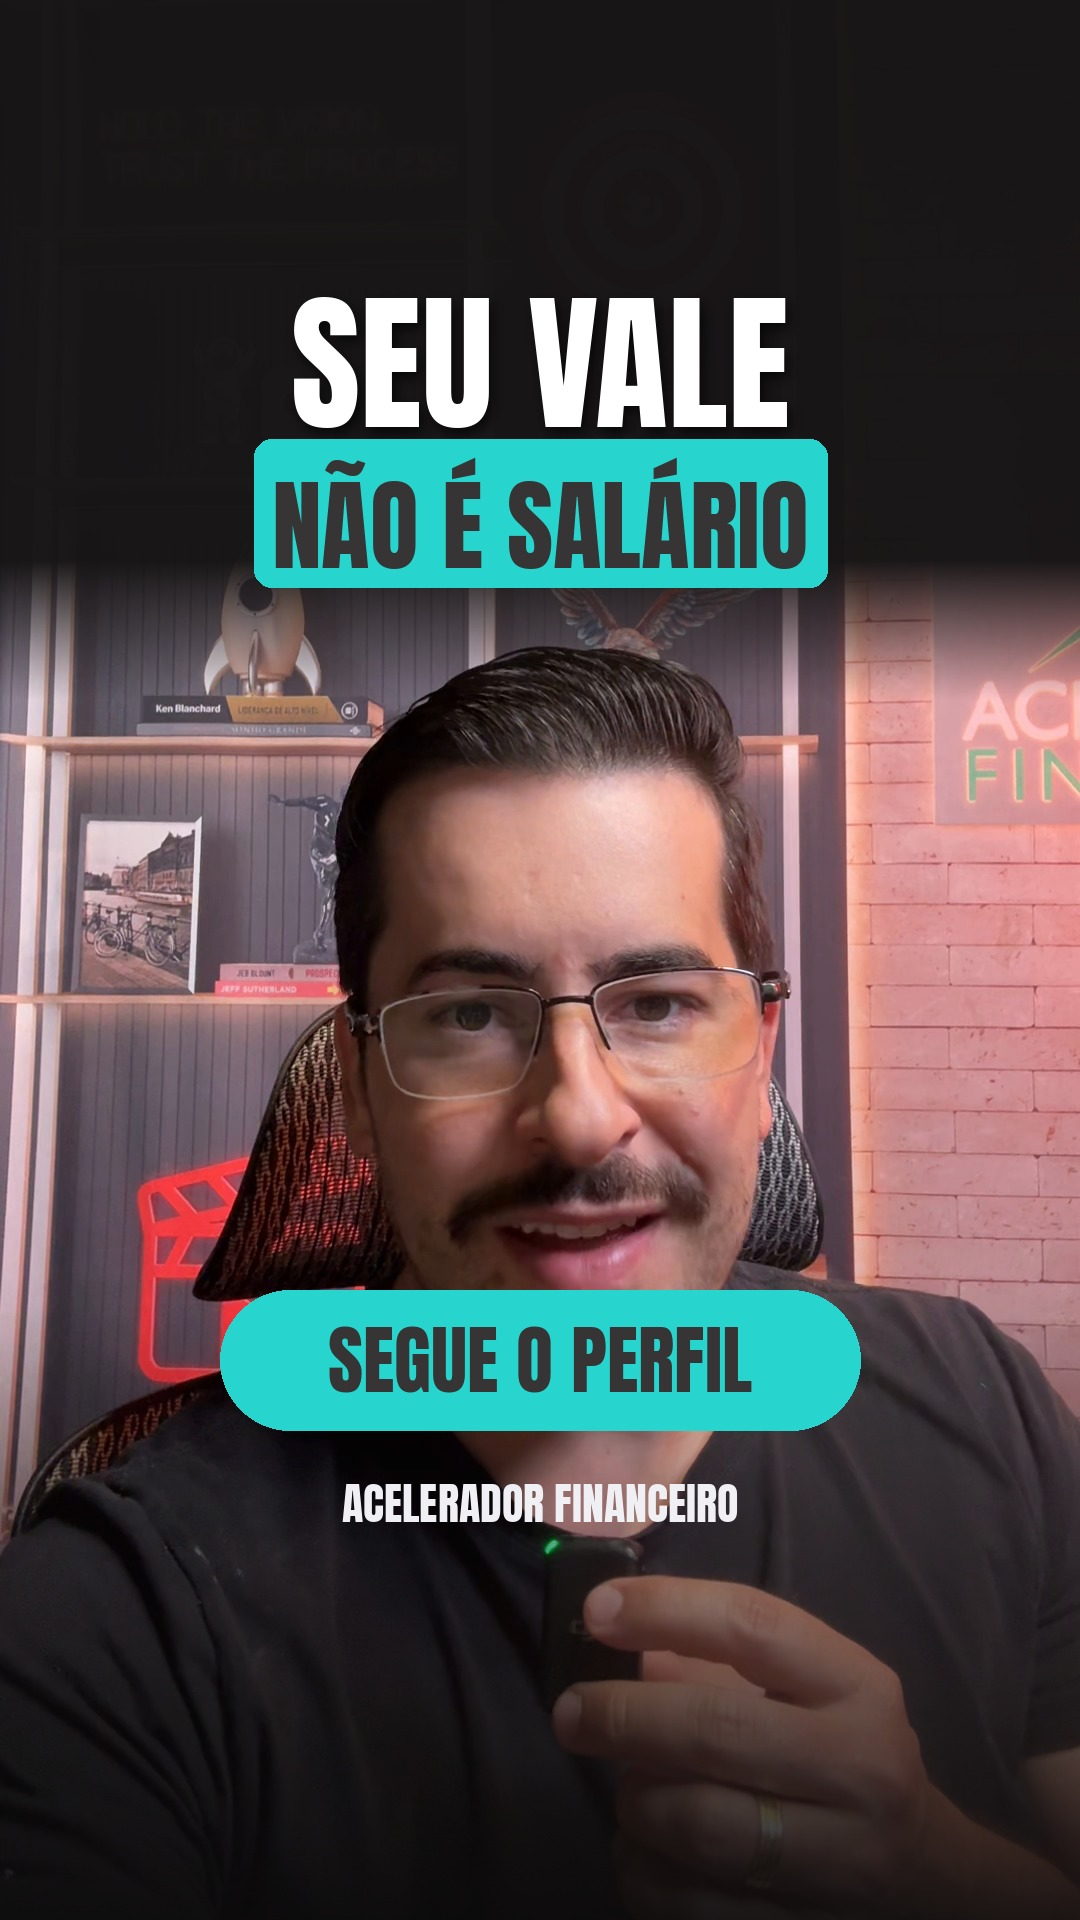
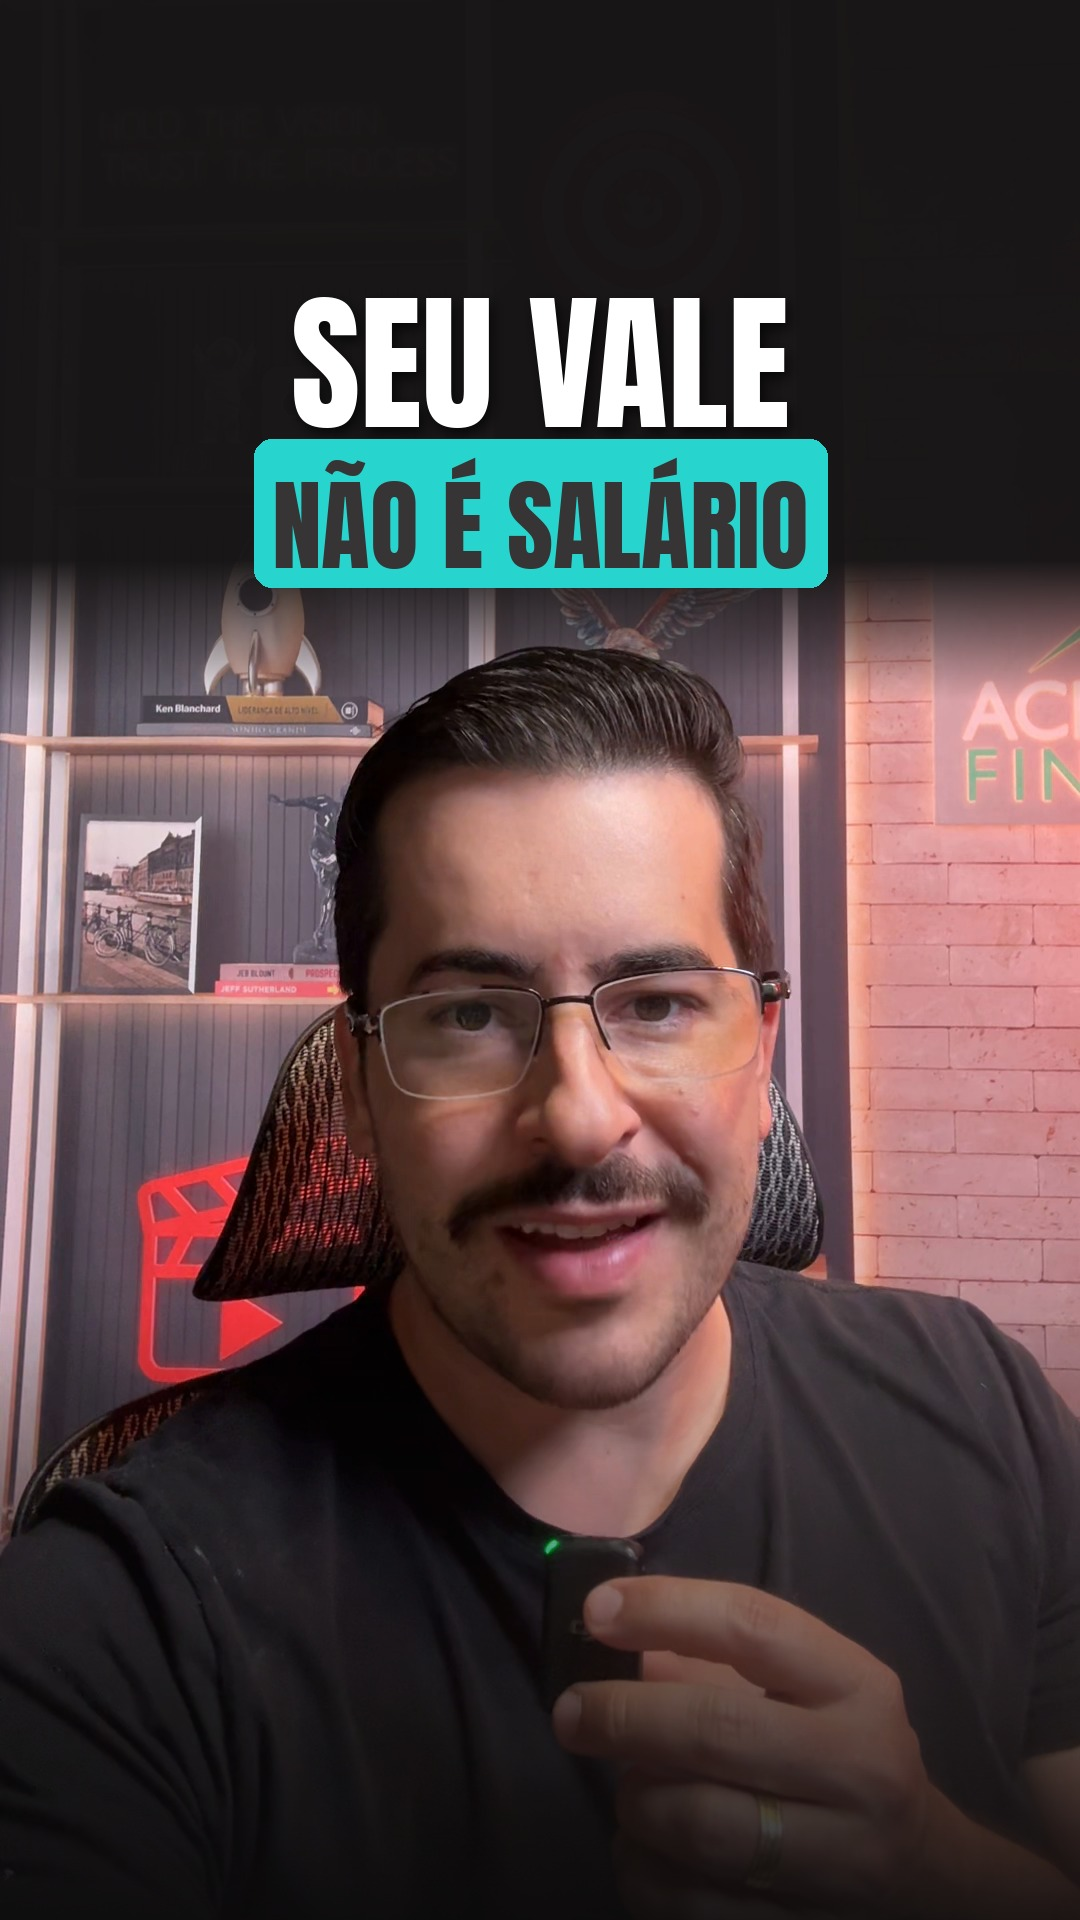
Capa #023 sem CTA; capa.py nunca põe CTA

Changed region(s): [[0.1833, 0.6562, 0.7944, 0.8125]]

diff --git a/tools/capa.py b/tools/capa.py
@@ -1,4 +1,6 @@
-"""Gera a capa 1080x1920 de um Reel: frame do vídeo + título grande (Anton) no topo + selo de CTA embaixo.
+"""REGRA DO CÉSAR (07/11/2026): capa NUNCA leva "segue o perfil" nem CTA, e nada pode ficar em cima do rosto.
+O argumento de CTA é ignorado; só o título vai na capa, acima da cabeça.
+Gera a capa 1080x1920 de um Reel: frame do vídeo + título grande (Anton) no topo + selo de CTA embaixo.
 Uso: python3 capa.py frame.png saida.jpg "LINHA 1|LINHA 2|..." "LINHA_DESTACADA" "COMENTA: MAPA" [y_centro_do_selo] [topo|base]
 (layout "base" quando o rosto está alto no quadro: título no peito, selo do CTA no alto, y_centro≈230)
 (o selo do CTA fica centrado em y para cobrir a legenda queimada; medir a altura da legenda no frame)
@@ -74,7 +76,7 @@ def main(frame, out, lines, highlight, cta, cy=1360, layout="topo"):
             d.text((x, y), line, font=f, fill=(255, 255, 255))
         y = bbox[3] + (34 if highlight and highlight in line else 22)
 
-    if cta:
+    if False:  # CTA na capa proibido (07/11/2026)
         # selo do CTA em cima da legenda queimada (faixa do peito, y≈1300–1430)
         f = ImageFont.truetype(ANTON, 76)
         tw = d.textlength(cta, font=f)
